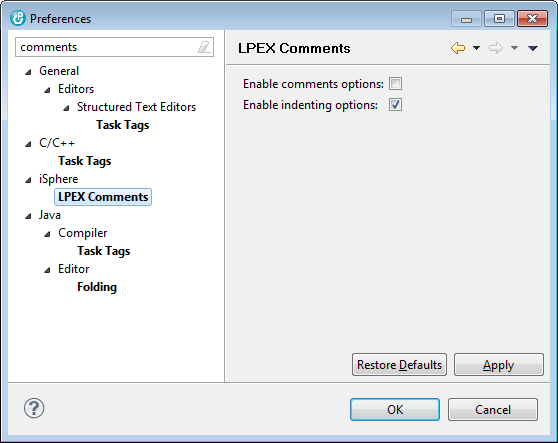
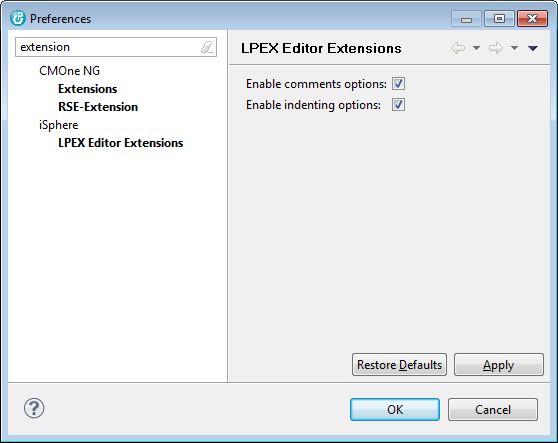
Renamed a couple of resources of the Lpex Editor Extensions plug-in to match the project name.

diff --git a/eclipse/iSphere Lpex Editor Extensions Plugin/src/biz/isphere/lpex/comments/preferencepages/ISphereLpexEditorExtensions.java b/eclipse/iSphere Lpex Editor Extensions Plugin/src/biz/isphere/lpex/comments/preferencepages/ISphereLpexEditorExtensions.java
@@ -24,21 +24,21 @@ import org.eclipse.ui.IWorkbenchPreferencePage;
 import biz.isphere.core.preferences.DoNotAskMeAgain;
 import biz.isphere.core.preferences.DoNotAskMeAgainDialog;
 import biz.isphere.core.swt.widgets.WidgetFactory;
-import biz.isphere.lpex.comments.ISphereAddRemoveCommentsPlugin;
+import biz.isphere.lpex.comments.ISphereLpexEditorExtensionsPlugin;
 import biz.isphere.lpex.comments.Messages;
 import biz.isphere.lpex.comments.preferences.Preferences;
 
-public class ISphereComments extends PreferencePage implements IWorkbenchPreferencePage {
+public class ISphereLpexEditorExtensions extends PreferencePage implements IWorkbenchPreferencePage {
 
     private boolean hasShownWarning;
 
     private Button btnCommentsEnabled;
     private Button btnIndentingEnabled;
 
-    public ISphereComments() {
+    public ISphereLpexEditorExtensions() {
         super();
 
-        setPreferenceStore(ISphereAddRemoveCommentsPlugin.getDefault().getPreferenceStore());
+        setPreferenceStore(ISphereLpexEditorExtensionsPlugin.getDefault().getPreferenceStore());
         getPreferenceStore();
 
         hasShownWarning = false;
@@ -153,7 +153,7 @@ public class ISphereComments extends PreferencePage implements IWorkbenchPrefere
 
     protected void setScreenToValues() {
 
-        ISphereAddRemoveCommentsPlugin.getDefault();
+        ISphereLpexEditorExtensionsPlugin.getDefault();
 
         Preferences preferences = getPreferences();
 

diff --git a/eclipse/iSphere Lpex Editor Extensions Plugin/src/biz/isphere/lpex/comments/ISphereLpexEditorExtensionsPlugin.java b/eclipse/iSphere Lpex Editor Extensions Plugin/src/biz/isphere/lpex/comments/ISphereLpexEditorExtensionsPlugin.java
@@ -9,13 +9,13 @@ import biz.isphere.core.lpex.menu.LpexMenuExtensionPlugin;
 /**
  * The activator class controls the plug-in life cycle
  */
-public class ISphereAddRemoveCommentsPlugin extends AbstractUIPlugin implements LpexMenuExtensionPlugin {
+public class ISphereLpexEditorExtensionsPlugin extends AbstractUIPlugin implements LpexMenuExtensionPlugin {
 
     // The plug-in ID
     public static final String PLUGIN_ID = "biz.isphere.lpex.comments";
 
     // The shared instance
-    private static ISphereAddRemoveCommentsPlugin plugin;
+    private static ISphereLpexEditorExtensionsPlugin plugin;
 
     // The Lpex menu extension
     private ILpexMenuExtension menuExtension;
@@ -23,7 +23,7 @@ public class ISphereAddRemoveCommentsPlugin extends AbstractUIPlugin implements 
     /**
      * The constructor
      */
-    public ISphereAddRemoveCommentsPlugin() {
+    public ISphereLpexEditorExtensionsPlugin() {
         plugin = this;
     }
 
@@ -62,7 +62,7 @@ public class ISphereAddRemoveCommentsPlugin extends AbstractUIPlugin implements 
      * 
      * @return the shared instance
      */
-    public static ISphereAddRemoveCommentsPlugin getDefault() {
+    public static ISphereLpexEditorExtensionsPlugin getDefault() {
         return plugin;
     }
 

diff --git a/eclipse/iSphere Lpex Editor Extensions Plugin/src/biz/isphere/lpex/comments/preferences/Preferences.java b/eclipse/iSphere Lpex Editor Extensions Plugin/src/biz/isphere/lpex/comments/preferences/Preferences.java
@@ -14,7 +14,7 @@ import org.eclipse.ui.preferences.ScopedPreferenceStore;
 import org.osgi.framework.Version;
 
 import biz.isphere.base.versioncheck.PluginCheck;
-import biz.isphere.lpex.comments.ISphereAddRemoveCommentsPlugin;
+import biz.isphere.lpex.comments.ISphereLpexEditorExtensionsPlugin;
 import biz.isphere.lpex.comments.lpex.MenuExtension;
 
 /**
@@ -45,7 +45,7 @@ public final class Preferences {
      * Preferences keys:
      */
 
-    private static final String DOMAIN = ISphereAddRemoveCommentsPlugin.PLUGIN_ID + "."; //$NON-NLS-1$
+    private static final String DOMAIN = ISphereLpexEditorExtensionsPlugin.PLUGIN_ID + "."; //$NON-NLS-1$
 
     /*
      * Outdated with iSphere 3.1
@@ -70,7 +70,7 @@ public final class Preferences {
     public synchronized static Preferences getInstance() {
         if (instance == null) {
             instance = new Preferences();
-            instance.preferenceStore = ISphereAddRemoveCommentsPlugin.getDefault().getPreferenceStore();
+            instance.preferenceStore = ISphereLpexEditorExtensionsPlugin.getDefault().getPreferenceStore();
         }
         return instance;
     }

diff --git a/eclipse/iSphere Lpex Editor Extensions Plugin/src/biz/isphere/lpex/comments/lpex/Preload.java b/eclipse/iSphere Lpex Editor Extensions Plugin/src/biz/isphere/lpex/comments/lpex/Preload.java
@@ -8,7 +8,7 @@
 
 package biz.isphere.lpex.comments.lpex;
 
-import biz.isphere.lpex.comments.ISphereAddRemoveCommentsPlugin;
+import biz.isphere.lpex.comments.ISphereLpexEditorExtensionsPlugin;
 import biz.isphere.lpex.comments.preferences.Preferences;
 
 import com.ibm.lpex.alef.LpexPreload;
@@ -32,7 +32,7 @@ public class Preload implements LpexPreload {
         }
 
         MenuExtension menuExtension = new MenuExtension();
-        menuExtension.initializeLpexEditor(ISphereAddRemoveCommentsPlugin.getDefault());
+        menuExtension.initializeLpexEditor(ISphereLpexEditorExtensionsPlugin.getDefault());
 
         return;
     }
